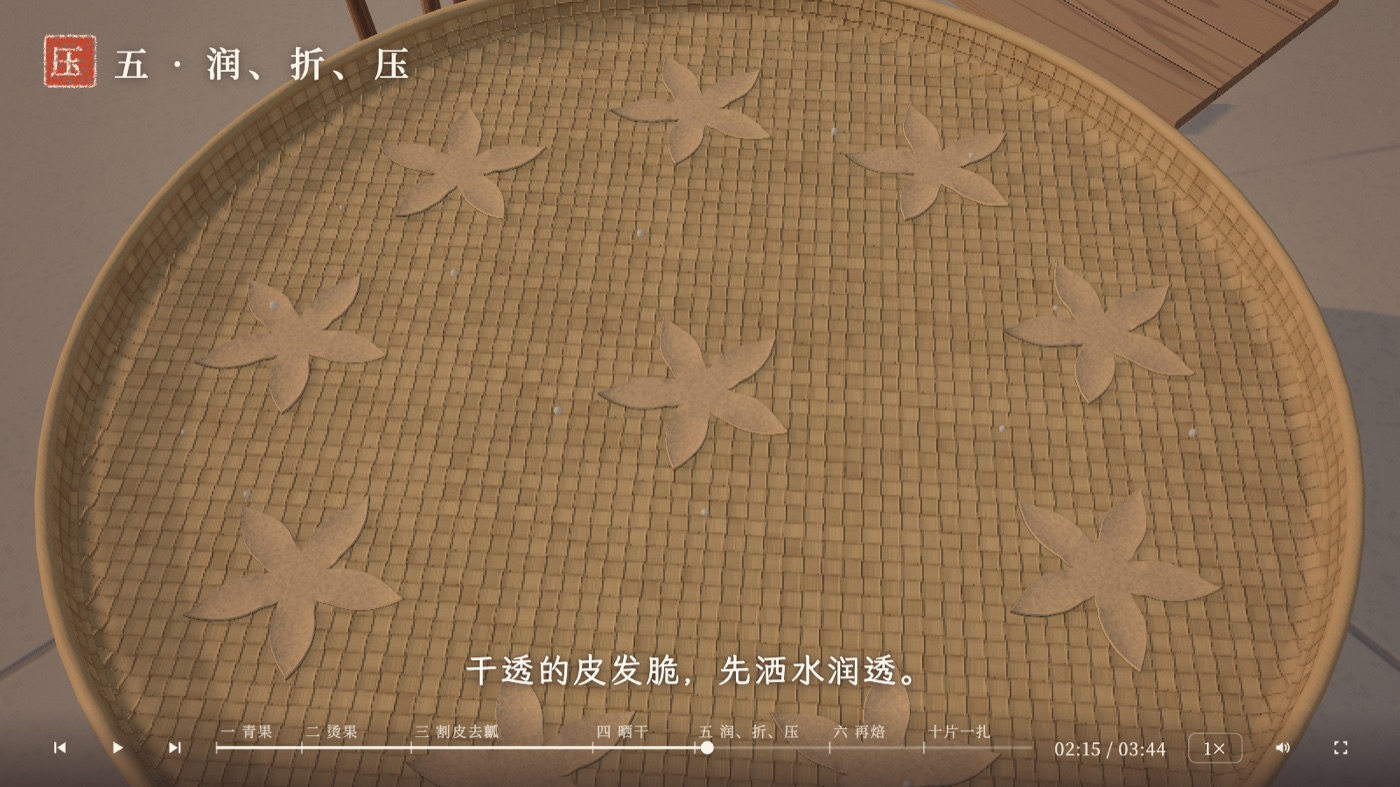
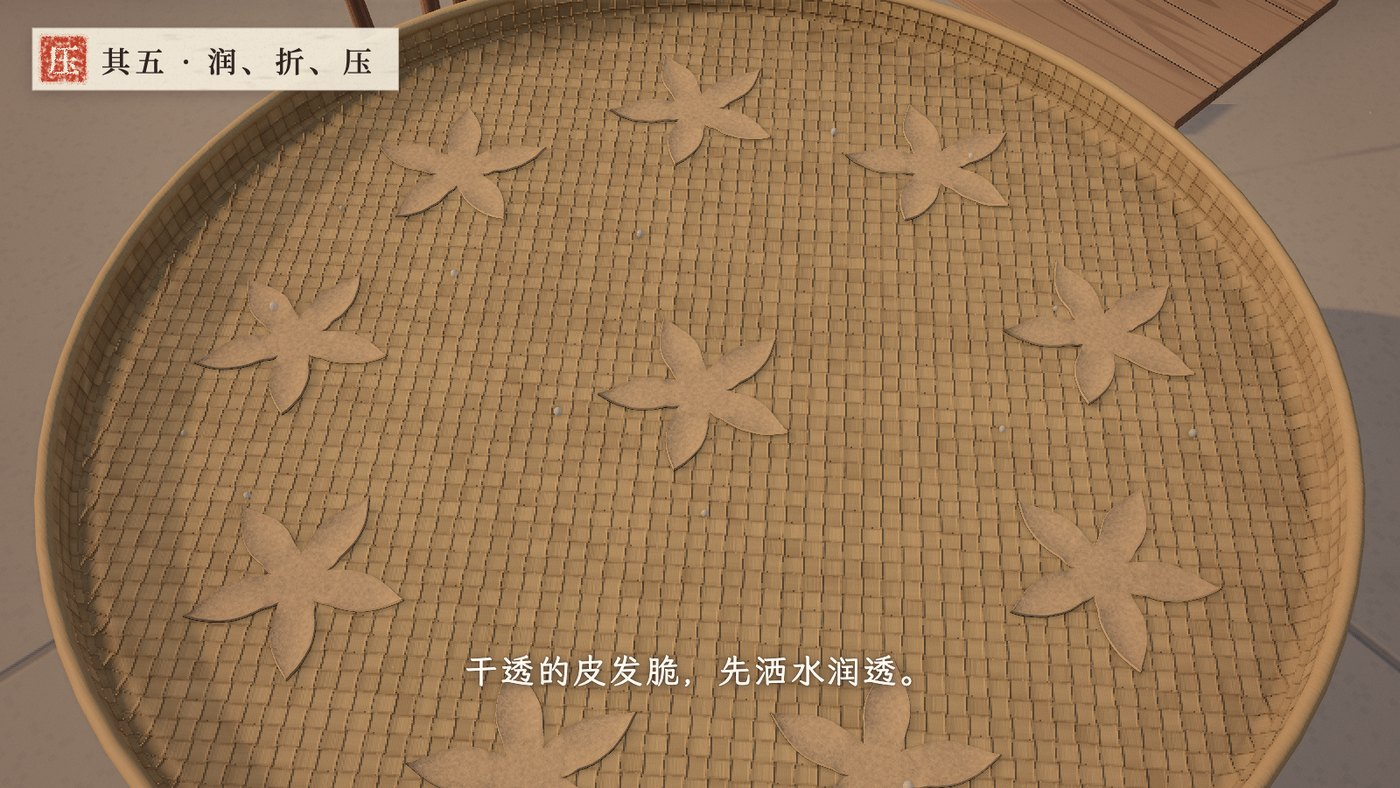
文档：README 截图按新界面重拍，加「一句古法，一章一章写上去」一节

diff --git a/README.md b/README.md
@@ -14,7 +14,9 @@
 
 一百斤鲜果，最后只出四五斤干皮。
 
-![入口页](shots/00-cover.jpg)
+![入口页：四条屏](shots/00-cover.jpg)
+
+<sub>入口是四幅挂轴。在哪一幅上停一停，它就往下垂一截，露出成品的白描、书上的头一句，和一串工序的小印；点一下，那一幅的纸铺满整屏，揭开就是院子。</sub>
 
 ---
 
@@ -37,14 +39,33 @@
 
 ---
 
+## 一句古法，一章一章写上去
+
+<table>
+<tr>
+<td width="50%"><img src="shots/05-book.jpg"><br><sub><b>书页</b>　做到哪一步，就描到哪一句；刚写上的那句，旁边圈一串朱圈。</sub></td>
+<td width="50%"><img src="shots/06-card.jpg"><br><sub><b>题签</b>　每章开头挂出一张：其一、其二……章名落墨，一笔飞白，盖印。</sub></td>
+</tr>
+</table>
+
+片子的右边，时常翻开一页线装书。书上那句古法，起先只是一行淡淡的朱红空心字，像描红本上等人来描的底样。院子里每做完一章，那一章的句子就落了墨——一个字一个字洇开、收干。等十片扎好、一罐装满，整句也就描满了，页脚盖一方「成」。
+
+药典里的一句话，原是这样一步一步做出来的。
+
+---
+
 ## 这是怎么做的
 
 不是拍视频，也不是做模型——**全部由程序生成**。
 
 院子里每一片瓦、灶膛里的每一块炭、果子表皮上的每一根绒毛，都是算出来的，没有导入任何外部 3D 模型。声音也几乎全是算的：落水、笊篱沥水、下刀、刮瓤、压板、打结、切药，还有锅里的水、灶火的噼啪、炭火的嘶声，全部由 Web Audio 实时合成。只有两段底色用了真实录音——院子里远处的鸟、灶膛里的火——都是 CC0，随仓库一起分发，出处与处理参数见 [`public/audio/CREDITS.md`](public/audio/CREDITS.md)。
 
+纸也是算的。书页的竹纸纹、印泥的毛边、白描的笔触、题签上那一笔飞白，都出自噪声滤镜和几行公式，不用一张图片素材。
+
 - **Three.js + TypeScript**，Vite 构建
 - **按段拆导演**：十三个独立小动画（`src/acts/`），每条线只写「用哪几段 + 参数 + 自己的台本」（`src/lines/`）
+- **界面跟着时间走**：题签、书页、落墨、圈点都是时间的函数，拖进度、倒回去看，字也跟着退回去
+- **换线不换网页**：纸盖着的时候把院子拆了重搭，地址栏照样变，浏览器的前进后退都认
 - **按 1920×1080 排版**，整体缩放；断网可跑
 
 ---
